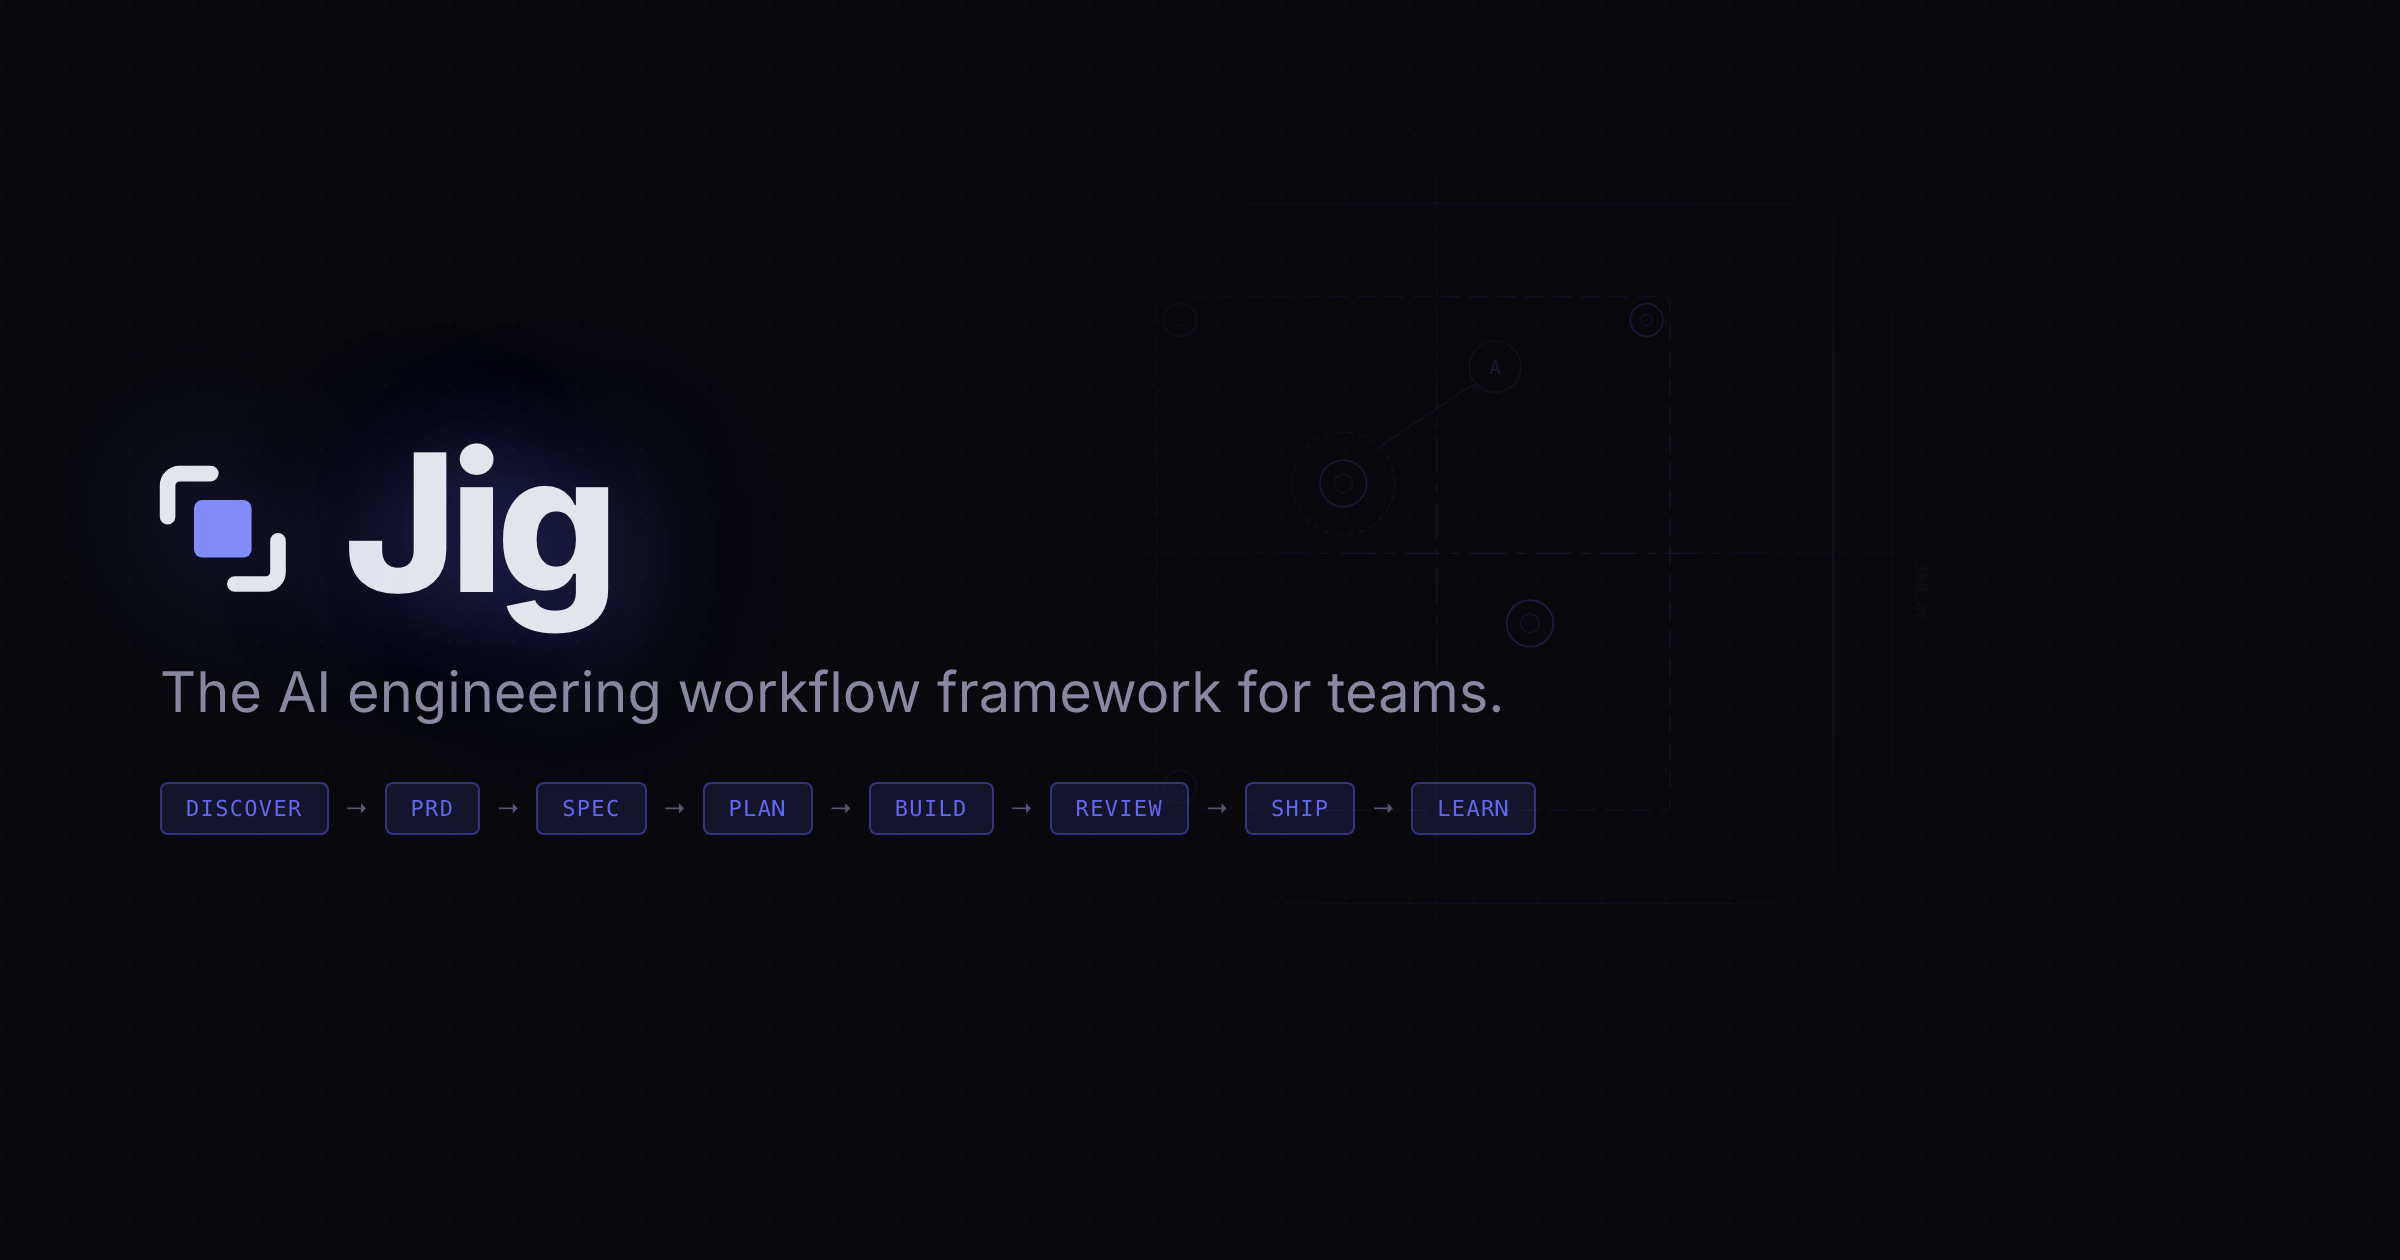
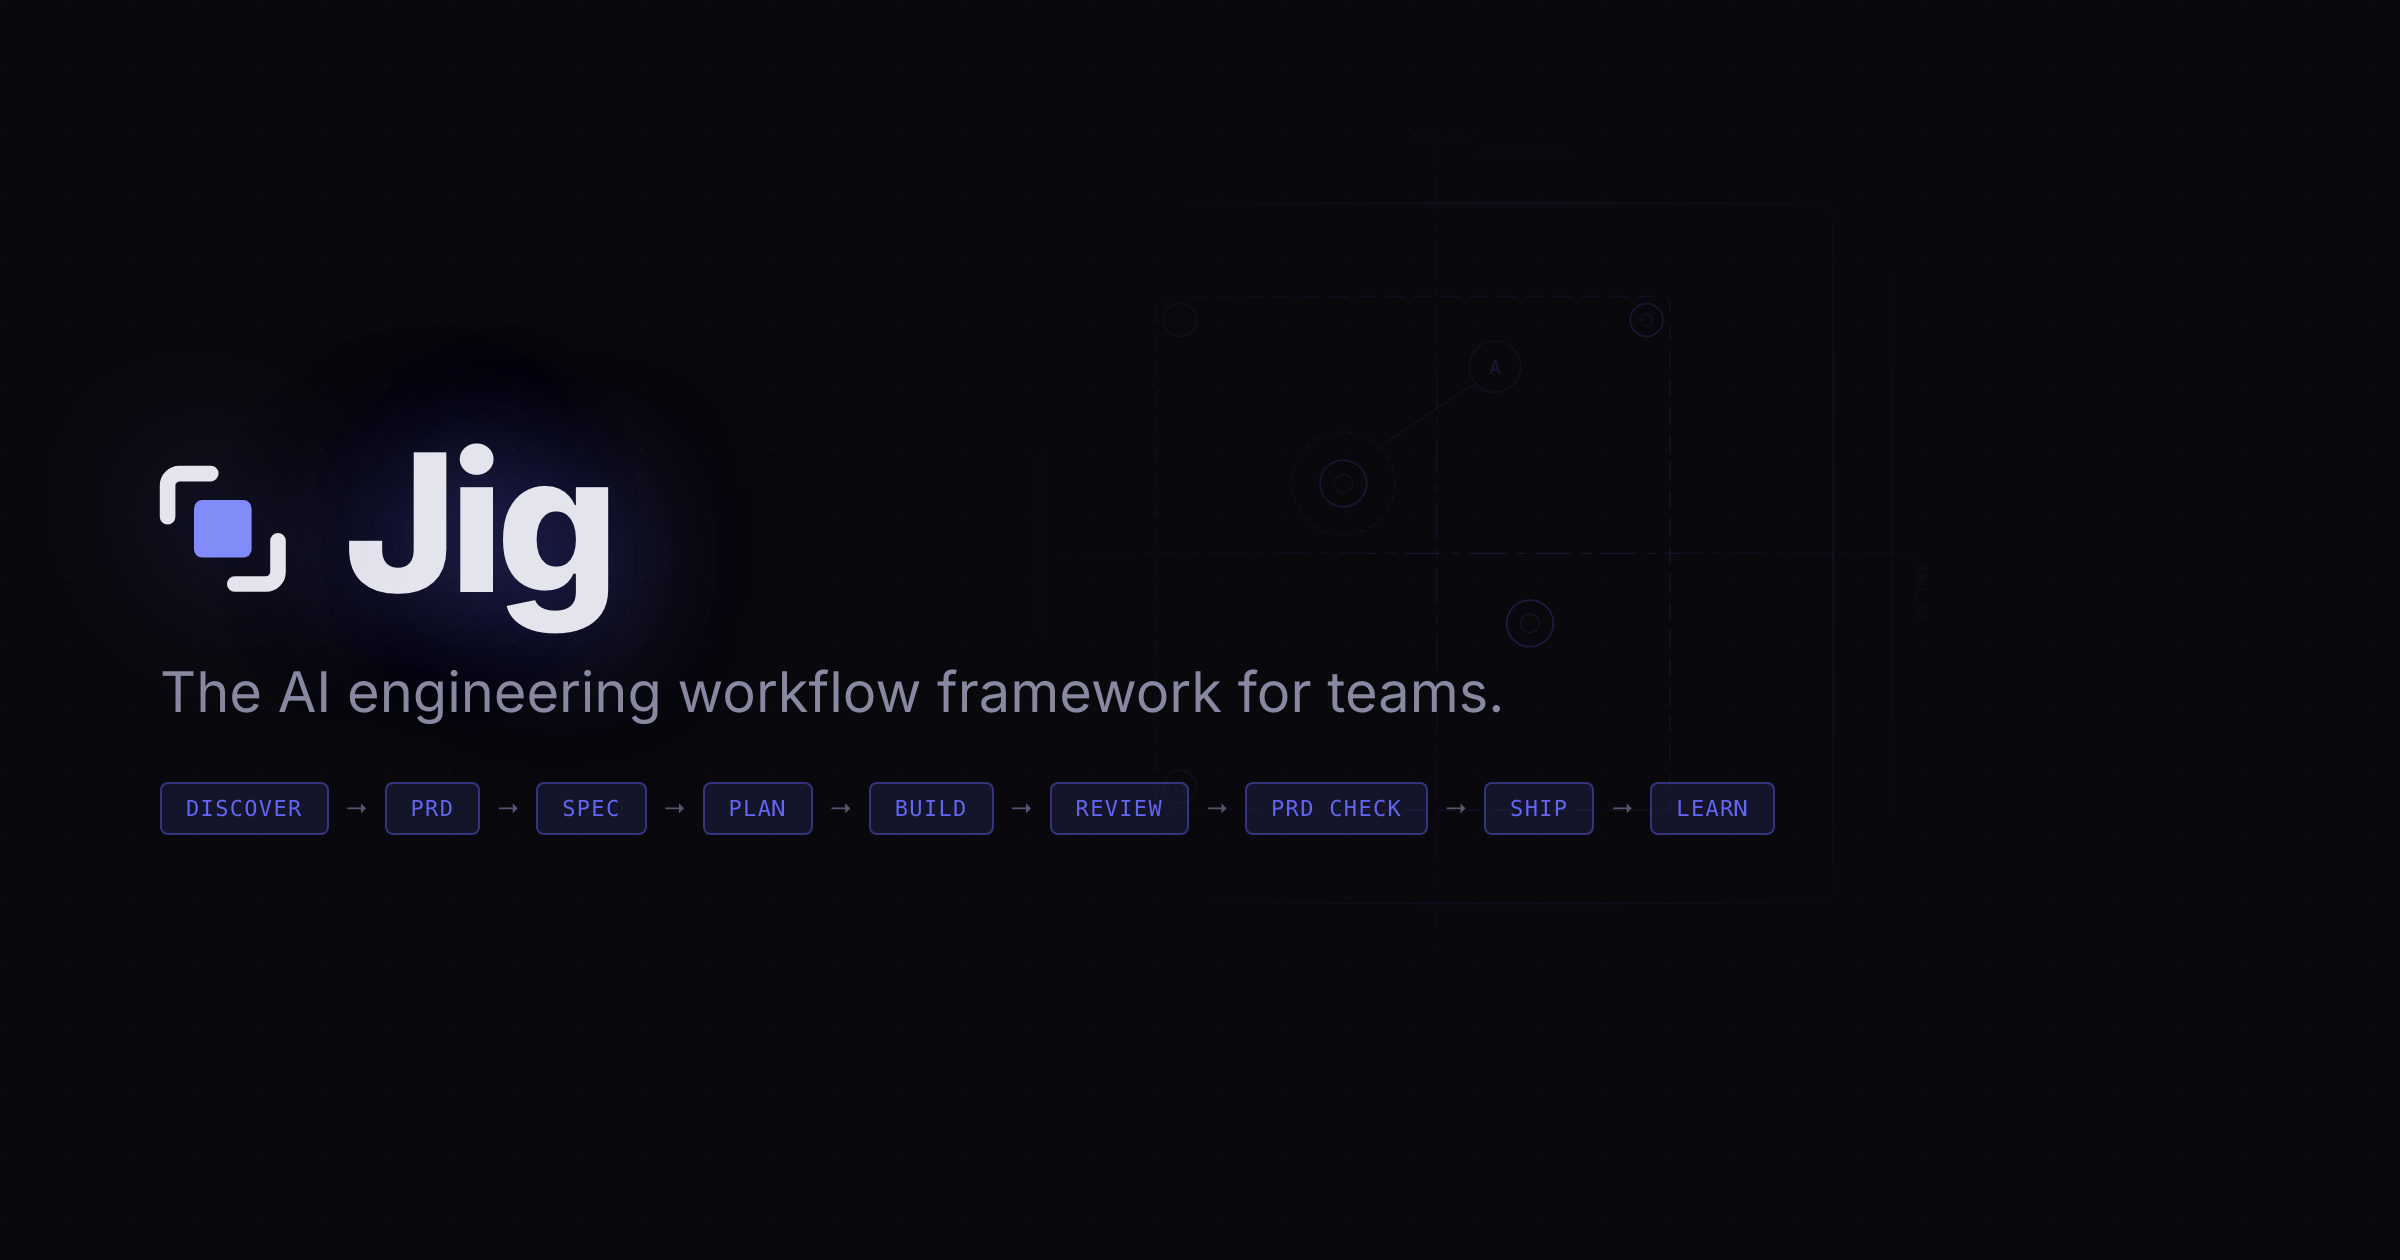
fix: address the final full-PR review
- README: the concerns checklist surfaces during spec, not brainstorm;
  add the missing ticket and worktree rows to the skill table
- microsite, walkthrough and OG card show PRD CHECK; og-image re-rendered
- live.js: only not_granted and revoked switch the page to read-only
  (invalid_argument is a malformed write, not a permission problem); a
  full store no longer tells readers to clear entries they cannot clear;
  a log write that fails as unavailable is retried once
- kickoff, build, sdd and PIPELINE.md call the stage BUILD and name its
  1.x config key, execute
- release notes: correct the mark's microsite claim; add concessions for
  concurrent edits, untested failure modes, the execute key, and the 1.x
  walkthrough narration

Claude-Session: https://claude.ai/code/session_01E77tEkSWDGjjw9N4iM8wHs

Changed region(s): [[0.5312, 0.619, 0.75, 0.681]]

diff --git a/core/skills/prd/reference/live.js b/core/skills/prd/reference/live.js
@@ -207,9 +207,10 @@
 
   /* ── writes ─────────────────────────────────────────────── */
   function fail(where, e) {
-    if (e && (e.code === "invalid_argument" || e.code === "not_granted")) { mode = "readonly"; setLive(); render();
+    if (e && (e.code === "not_granted" || e.code === "revoked")) { mode = "readonly"; setLive(); render();
       say(where, "This view can read the page but not save to it."); return; }
-    if (e && e.code === "quota_exceeded") { say(where, "The page's storage is full. Ask the owner to clear old log entries."); return; }
+    if (e && e.code === "quota_exceeded") { say(where, "The page's storage is full, so new changes can't be saved."); return; }
+    if (e && e.code === "invalid_argument") { say(where, "That change was too large or malformed to save."); return; }
     say(where, "That didn't save. Try again in a moment.");
   }
   async function addLog(kind, text, ref) {
@@ -220,7 +221,10 @@
      entry fails, say so instead of claiming the change failed. */
   async function logAfter(where, kind, text, ref) {
     try { await addLog(kind, text, ref); }
-    catch (e) { say(where, "Saved. The log entry for it did not save" + (e && e.code === "quota_exceeded" ? ": the page's storage is full." : ".")); }
+    catch (e) {
+      if (e && e.code === "unavailable") { try { await addLog(kind, text, ref); return; } catch (e2) { e = e2; } }
+      say(where, "Saved. The log entry for it did not save" + (e && e.code === "quota_exceeded" ? ": the page's storage is full." : "."));
+    }
   }
   /* Read, change, write the whole document, so fields another writer added
      (Jig's note on a milestone, a decision's question) survive a person's click. */

diff --git a/docs/walkthrough.js b/docs/walkthrough.js
@@ -365,7 +365,7 @@
         { t: 800, type: 'line', html: '<span class="wt-label">  \u25B8 Work type:</span> <span class="wt-value">feature</span>' },
         { t: 1100, type: 'line', html: '<span class="wt-label">  \u25B8 Summary:</span>  <span class="wt-value">Add commenting system to articles</span>' },
         { t: 1400, type: 'line', html: '<span class="wt-label">  \u25B8 Stack:</span>    <span class="wt-muted">GraphQL API \u00B7 Postgres \u00B7 React \u00B7 Design System</span>' },
-        { t: 1800, type: 'line', html: '<span class="wt-label">  \u25B8 Pipeline:</span> <span class="wt-muted">discover \u2192 prd \u2192 spec \u2192 plan \u2192 build \u2192 review \u2192 ship \u2192 learn</span>' },
+        { t: 1800, type: 'line', html: '<span class="wt-label">  \u25B8 Pipeline:</span> <span class="wt-muted">discover \u2192 prd \u2192 spec \u2192 plan \u2192 build \u2192 review \u2192 prd check \u2192 ship \u2192 learn</span>' },
         { t: 2400, type: 'line', html: '<span class="wt-label">  \u25B8 Branch:</span>   <span class="wt-value">eng/comments-42-article-commenting</span>' },
         { t: 2800, type: 'line', html: '<span class="wt-label">  \u25B8 Ticket:</span>   <span class="wt-success">COMMENTS-42 created \u2713</span>' },
         { t: 3200, type: 'cursor' },

diff --git a/docs/index.html b/docs/index.html
@@ -1808,7 +1808,7 @@
 <pre><span class="t-line" style="transition-delay:0ms"><span class="t-prompt">$</span> <span class="t-cmd">/jig:kickoff</span></span>
 <span class="t-line" style="transition-delay:80ms"><span class="t-label">  ▸ Work type:</span> <span class="t-value">feature</span></span>
 <span class="t-line" style="transition-delay:160ms"><span class="t-label">  ▸ Summary:</span>  <span class="t-value">Add user notification preferences</span></span>
-<span class="t-line" style="transition-delay:240ms"><span class="t-label">  ▸ Pipeline:</span> <span class="t-muted">discover → prd → spec → plan → build → review → ship</span></span>
+<span class="t-line" style="transition-delay:240ms"><span class="t-label">  ▸ Pipeline:</span> <span class="t-muted">discover → prd → spec → plan → build → review → prd check → ship → learn</span></span>
 <span class="t-break"></span>
 <span class="t-line" style="transition-delay:500ms"><span class="t-prompt">$</span> <span class="t-cmd">/jig:brainstorm</span></span>
 <span class="t-line" style="transition-delay:600ms"><span class="t-label">  ▸ What problem does this solve for users?</span></span>

diff --git a/docs/og-card.html b/docs/og-card.html
@@ -131,6 +131,8 @@
       <span class="arrow">&rarr;</span>
       <span class="stage">REVIEW</span>
       <span class="arrow">&rarr;</span>
+      <span class="stage">PRD CHECK</span>
+      <span class="arrow">&rarr;</span>
       <span class="stage">SHIP</span>
       <span class="arrow">&rarr;</span>
       <span class="stage">LEARN</span>

diff --git a/README.md b/README.md
@@ -102,7 +102,7 @@ Jig ships as a plugin with core skills, agents, and review specialists. Your tea
 |---------|-------|-------------|
 | `kickoff` | Pipeline orchestrator | Classifies work (bug/feature/improvement/task) and routes through the appropriate pipeline stages. The entry point for all development work. |
 | `init` | First-run setup | Auto-detects your project environment, conducts a back-and-forth interview, and generates `jig.config.md`, team directory structure, and CLAUDE.md declaration. |
-| `brainstorm` | Design exploration | One question at a time, 2-3 approaches with trade-offs, design approval gate. Surfaces your team's concerns checklist from `jig.config.md`. |
+| `brainstorm` | Design exploration | One question at a time, 2-3 approaches with trade-offs, design approval gate. |
 | `prd` | Product document | Plain-language PRD with a one-sentence thesis, moments, rules with "you'll know it works when", phases with an MVP cut line, milestones, decisions and sign-off. Publishes a live Jig page; checks the build against it before shipping. |
 | `spec` | Technical contract | Structured spec with enforceable acceptance checklists. Two tiers: Full (12 sections) for features, Light (5 sections) for bugs. Layer-tagged items (`[API]`, `[DATA]`, `[LOGIC]`, `[UI]`), traced to PRD outcomes, feed directly into spec reviewers. |
 | `plan` | Implementation planning | Turns the spec into bite-sized TDD tasks with exact file paths, code snippets, verification steps, and a map of which tasks complete which PRD milestones. |
@@ -116,6 +116,8 @@ Jig ships as a plugin with core skills, agents, and review specialists. Your tea
 | `debug` | Systematic debugging | Iron law: no fixes without root cause investigation. Four phases — investigate, analyze patterns, test hypothesis, implement. Escalates to "question the architecture" after 3 failed fixes. |
 | `verify` | Verification gate | Evidence before assertions. Run the command, read the output, THEN claim it works. Prevents "should pass now" claims without proof. |
 | `tdd` | Test-driven development | Red-green-refactor. No production code without a failing test first. Wrote code before the test? Delete it. Start over. |
+| `ticket` | Ticket creation | Interviews you, writes the ticket, files it in your configured tracker (Linear, Jira, GitHub Issues), and sets up the branch. |
+| `worktree` | Parallel workspaces | Creates or removes provisioned git worktrees, syncing env files and dependencies, for isolated parallel development. |
 | `finish` | Branch completion | Verifies tests pass, then presents 4 options: merge locally, create PR, keep branch as-is, or discard. Handles worktree cleanup. |
 | `extend` | Framework extension | The meta-skill. Interviews you about what you need, determines the right artifact (skill, specialist, agent, pack, or config change), scaffolds it with valid frontmatter, and wires it into discovery. |
 
@@ -157,7 +159,7 @@ Ships with Jig. Three skills + one specialist for universal engineering practice
 Your domain expertise lives in `.claude/skills/` in your project. These follow Jig's schema and wire into the framework:
 
 - **Glob-triggered**: edit a database entity file → `be-database` skill auto-loads
-- **Concerns checklist**: listed in `jig.config.md` → surfaces during `/jig:brainstorm`
+- **Concerns checklist**: listed in `jig.config.md` → surfaces during `/jig:spec`
 - **Review swarm**: team specialists in `.claude/specialists/` → dispatched by `/jig:review`
 - **Created with**: `/jig:extend` scaffolds new skills with valid frontmatter
 
@@ -179,7 +181,7 @@ ticket-prefix: ENG
 - test-strategy: manual
 ```
 
-The concerns checklist surfaces during brainstorming — mapping your team's engineering concerns to specific skills. See [framework/CONCERNS_CHECKLIST.md](framework/CONCERNS_CHECKLIST.md).
+The concerns checklist surfaces during spec authoring — mapping your team's engineering concerns to specific skills. See [framework/CONCERNS_CHECKLIST.md](framework/CONCERNS_CHECKLIST.md).
 
 ### Tier System
 

diff --git a/core/skills/kickoff/SKILL.md b/core/skills/kickoff/SKILL.md
@@ -87,10 +87,10 @@ Before anything else, determine the work type. This controls pipeline depth.
 ```mermaid
 graph TD
   start{"What kind of work?"}
-  start -->|broken / incorrect| bug["BUG<br/>Discovery tool: debug<br/>Spec: light (optional)<br/>Plan: 1-3 tasks<br/>Execute: sequential<br/>Learn: optional"]
-  start -->|making existing thing better| improvement["IMPROVEMENT<br/>Discovery tool: brainstorm (optional)<br/>PRD: one-pager if large<br/>Spec: light or full<br/>Plan: standard<br/>Execute: SDD or team-dev<br/>Learn: optional"]
-  start -->|new capability| feature["FEATURE<br/>Discovery tool: brainstorm (recommended)<br/>PRD: recommended<br/>Spec: full<br/>Plan: detailed<br/>Execute: team-dev<br/>Learn: yes"]
-  start -->|config / chore / refactor| task["TASK / CHORE<br/>Skip discovery tools<br/>Plan: minimal<br/>Execute: direct<br/>Learn: no"]
+  start -->|broken / incorrect| bug["BUG<br/>Discovery tool: debug<br/>Spec: light (optional)<br/>Plan: 1-3 tasks<br/>Build: sequential<br/>Learn: optional"]
+  start -->|making existing thing better| improvement["IMPROVEMENT<br/>Discovery tool: brainstorm (optional)<br/>PRD: one-pager if large<br/>Spec: light or full<br/>Plan: standard<br/>Build: SDD or team-dev<br/>Learn: optional"]
+  start -->|new capability| feature["FEATURE<br/>Discovery tool: brainstorm (recommended)<br/>PRD: recommended<br/>Spec: full<br/>Plan: detailed<br/>Build: team-dev<br/>Learn: yes"]
+  start -->|config / chore / refactor| task["TASK / CHORE<br/>Skip discovery tools<br/>Plan: minimal<br/>Build: direct<br/>Learn: no"]
 ```
 
 Check `jig.config.md` for stage overrides per work type. The config may skip or lighten stages beyond these defaults.
@@ -208,7 +208,9 @@ Before proceeding, confirm:
 
 ---
 
-## Step 5: EXECUTE
+## Step 5: BUILD
+
+Stage key in `jig.config.md`: `execute` (kept from 1.x so existing configs work).
 
 **Gate**: All tasks implemented, tested, and committed.
 
@@ -312,7 +314,7 @@ The pipeline isn't strictly linear. You may loop back when:
 - **Scope changed during execution** → Return to Spec (or Brainstorm), update the contract
 - **Build hits a product question** → Open a decision on the PRD; pause only the tasks it blocks
 - **Review finds design issues** → Return to Plan or Brainstorm depending on severity
-- **PR feedback requires significant changes** → Return to Execute
+- **PR feedback requires significant changes** → Return to Build
 
 When looping back, update the plan document to reflect changes.
 
@@ -345,7 +347,7 @@ When looping back, update the plan document to reflect changes.
 | Brainstorm (tool) | `Skill: jig:brainstorm` | Understanding, no artifact |
 | Debug (tool) | `Skill: jig:debug` | Root cause, no artifact |
 | Plan | `Skill: jig:plan` | `{plans-directory}/*-plan.md` |
-| Execute | `Skill: jig:build` | Implemented + tested code |
+| Build | `Skill: jig:build` | Implemented + tested code |
 | Review | `Skill: jig:review` | Audited code |
 | PRD check | `Skill: jig:prd` (check mode) | Outcomes verified, trace filled |
 | Ship | `Skill: jig:pr-create` | Merged PR |

diff --git a/docs/releases/2.0.md b/docs/releases/2.0.md
@@ -56,7 +56,8 @@ Pages carry the Jig look: drafting-paper grid, indigo for the work, a pink
 outside, and a title block for sign-off.
 
 **New mark.** The clamp: two corner brackets holding an indigo square. It
-replaces `assets/jig.png` in the README and on the microsite.
+replaces `assets/jig.png` in the README and joins the wordmark on the
+microsite, its favicon and its social card.
 
 ## Upgrading from 1.x
 
@@ -108,7 +109,19 @@ Choices made to ship 2.0, with what they cost.
    run). Their bodies, and `docs/specs/2026-03-28-jig-framework-design.md`,
    still say "PRD" in the 1.x sense; they record what was decided at the time.
 9. **Fonts load from Google Fonts.** Pages fall back to system fonts offline.
-10. **The voice rules are enforced by review, not by tooling.** The
+10. **Two people editing at once can lose one change.** The page reads a
+    record, changes its fields and writes it back. The platform's database
+    has no transactions, so if Jig or another person writes the same record
+    between that read and write, the later write wins. The window is under a
+    second and the log still records both actions.
+11. **Some failure modes are untested.** The fake database in the tests does
+    not simulate read-only viewers, revoked access or two writers at once.
+12. **The stage key for BUILD is still `execute`.** Renaming it would break
+    every 1.x config for no gain; the docs name the key where it matters.
+13. **The walkthrough's narration is from 1.x.** The new PRD section has no
+    voiceover. The Spec section plays the 1.x PRD recording, which describes
+    the same technical contract but calls it a PRD. Re-record both.
+14. **The voice rules are enforced by review, not by tooling.** The
     `plain-language` specialist flags banned words and code; nothing blocks
     publishing a page that ignores it.
 

diff --git a/core/skills/build/SKILL.md b/core/skills/build/SKILL.md
@@ -168,7 +168,7 @@ If a write is refused, or the PRD cannot be found, carry on and say once, in the
 ## Integration
 
 **Called by:**
-- `kickoff` during the EXECUTE stage
+- `kickoff` during the BUILD stage
 - Users directly via `/jig:build`
 
 **Invokes:**
@@ -181,7 +181,7 @@ If a write is refused, or the PRD cannot be found, carry on and say once, in the
 - `plan` — creates the plan that this skill executes
 - `spec` — produces acceptance checklists that spec reviewers verify during execution
 - `prd` — the live product document that build keeps current (milestones, decisions, log)
-- `kickoff` — the full pipeline orchestrator that routes here at the EXECUTE stage
+- `kickoff` — the full pipeline orchestrator that routes here at the BUILD stage
 
 ---
 

diff --git a/framework/PIPELINE.md b/framework/PIPELINE.md
@@ -56,7 +56,7 @@ Transpose the spec (or ticket, or conversation context) into an implementation p
 
 ### 5. Build
 
-Build the thing. Either in parallel or serial.
+Stage key in `jig.config.md`: `execute` (kept from 1.x). Build the thing. Either in parallel or serial.
 
 - **Skills:** `team-dev` (parallel, 3+ independent tasks) or `sdd` (serial, coupled tasks)
 - **Output:** Implemented, tested, committed code

diff --git a/core/skills/sdd/SKILL.md b/core/skills/sdd/SKILL.md
@@ -327,7 +327,7 @@ Final reviewer: All requirements met, cross-task integration clean.
 
 **Called by:**
 - `plan` (execution handoff) -- when user chooses sequential execution
-- `kickoff` during the EXECUTE stage
+- `kickoff` during the BUILD stage
 
 **Terminal state:**
 - **REQUIRED**: Invoke `finish` after all tasks pass final review
